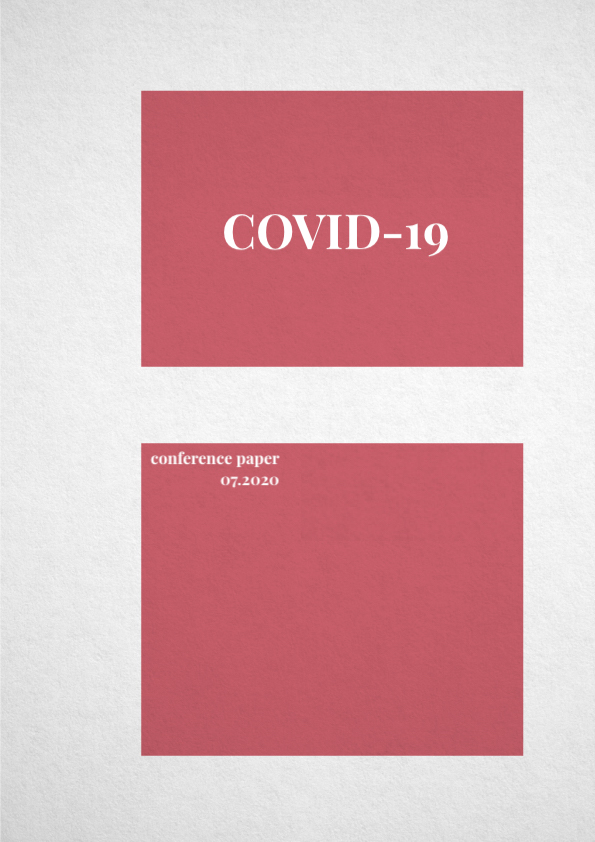
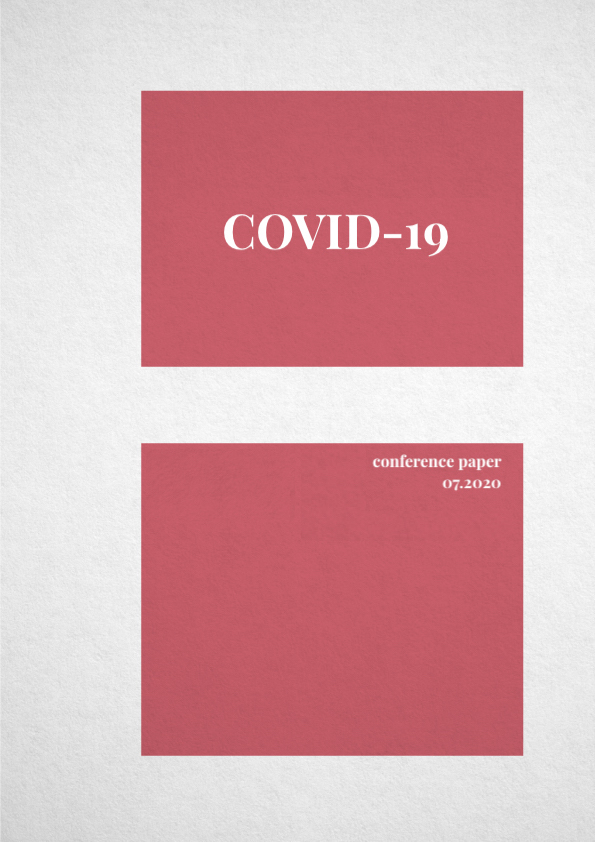
removed Right Sup (not ready), corrected WCA image alignment

Changed region(s): [[0.242, 0.5249, 0.484, 0.5867], [0.6353, 0.5249, 0.8471, 0.5867]]

diff --git a/work.html b/work.html
@@ -116,40 +116,10 @@
 									<div class="col-md-12 no-gutters">
 										<div class="display-t js-fullheight">
 											<div class="display-tc js-fullheight">
-												<div class="text-inner text-inner-left">
-													<h2><a href="11.pdf" target="_blank">Kashmir, Colonialism, and COVID-19</a></h2>
-													<p>A draft of this paper was originally presented at the <a href=https://www.standwithkashmir.org/release-kashmiri-prisoners> Working Class Academics Conference </a></h2>. This paper considers the historical conflict surrounding Kashmir – a region targeted for its profound natural beauty, capitalist potential, & as the only Muslim-majority state in a Hindu nationalist India – and interrogates India’s treatment of Kashmir preceding and during the ongoing COVID-19 pandemic to problematize the capitalist power's colonial desire of the region.</p>
-													<p><a href="11.pdf" target="_blank" class="btn-view">Full Text</a></p>
-												</div>
-											</div>
-										</div>
-									</div>
-								</div>
-							</div>
-						</div>
-					</div>
-				</div>
-				<div class="row">
-
-					<div class="col-md-12">
-						<div class="work-entry-flex animate-box js-fullheight">
-							<div class="col-three-forth js-fullheight">
-								<div class="row no-gutters">
-									<div class="col-md-12 col-md-push-10 no-gutters">
-										<div class="work-img js-fullheight" style="background-image: url(images/work-10.jpg);">
-										</div>
-									</div>
-								</div>
-							</div>
-							<div class="col-one-forth js-fullheight">
-								<div class="row no-gutters">
-									<div class="col-md-12 col-md-pull-12 no-gutters">
-										<div class="display-t js-fullheight">
-											<div class="display-tc js-fullheight">
 												<div class="text-inner text-inner-right">
-													<h2><a href="10.pdf" target="_blank">The Right Supremacist Manifesto</a></h2>
-													<p>This essay attempts to parody the supposed immutability of ideologies often found in our political documents. I satirically expose the irrationality of the white supremacist movement as both an overt & covert practice in its marriage to the United States' foundations of capitalism and slavery by adopting the absurd position of a "right supremacist".</p>
-													<p><a href="10.pdf" target="_blank"class="btn-view">Full Text</a></p>
+													<h2><a href="11.pdf" target="_blank">Kashmir, Colonialism, and COVID-19</a></h2>
+													<p>A draft of this paper was originally presented at the <a href=https://workingclass-academics.co.uk> Working Class Academics Conference </a></h2>. This paper considers the historical conflict surrounding Kashmir – a region targeted for its profound natural beauty, capitalist potential, & as the only Muslim-majority state in a Hindu nationalist India – and interrogates India’s treatment of Kashmir preceding and during the ongoing COVID-19 pandemic to problematize the capitalist power's colonial desire of the region.</p>
+													<p><a href="11.pdf" target="_blank" class="btn-view">Full Text</a></p>
 												</div>
 											</div>
 										</div>
